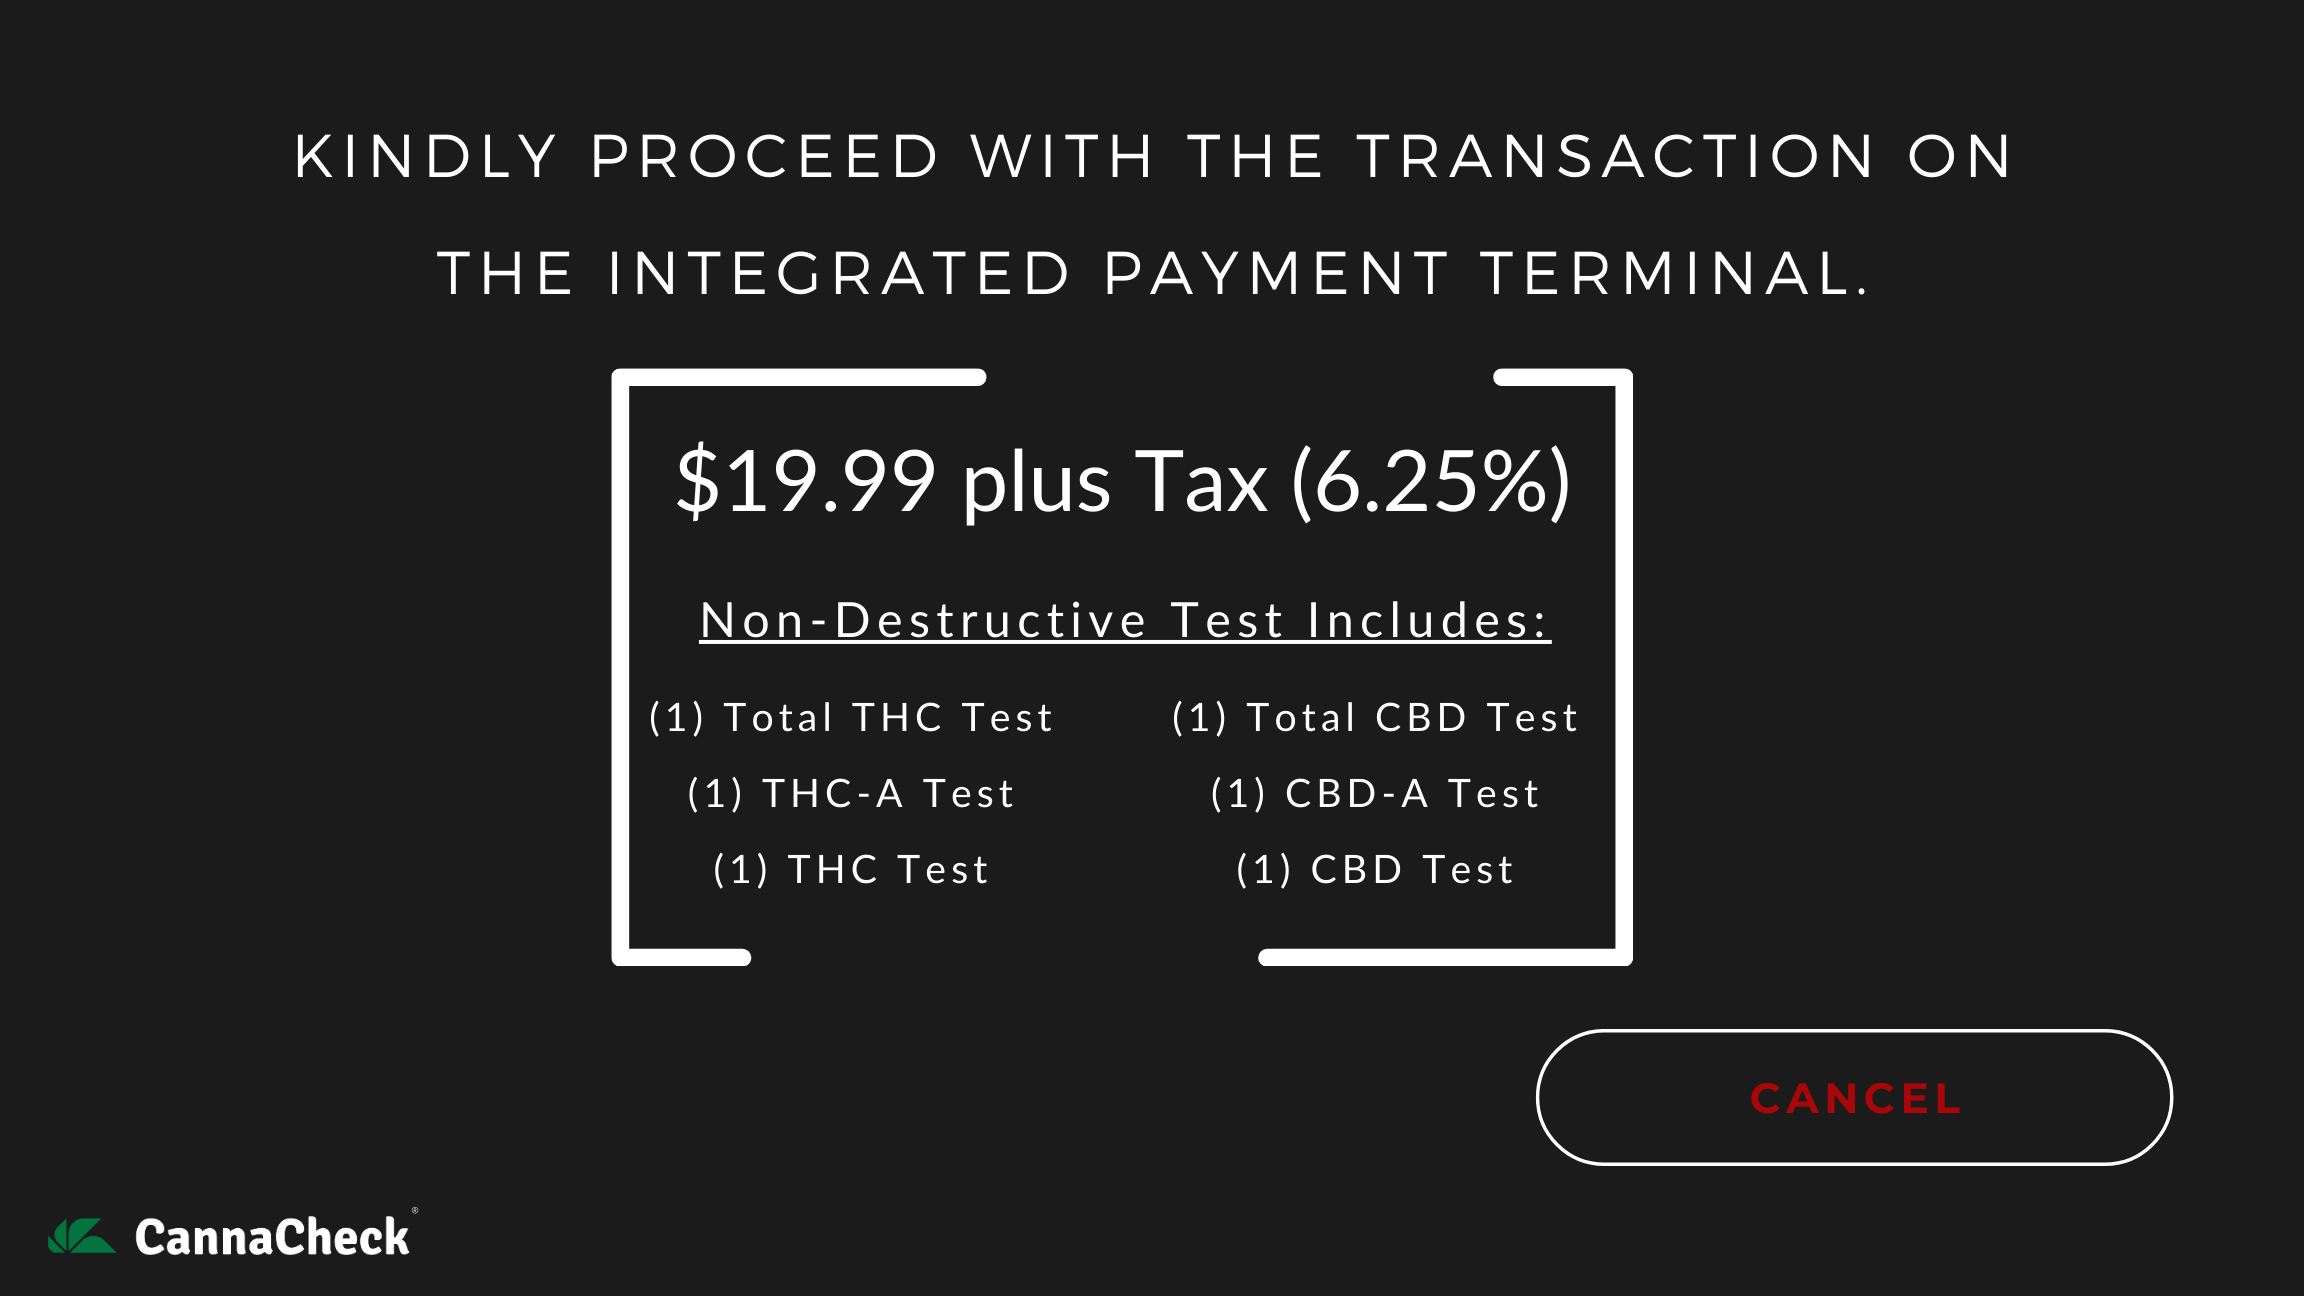
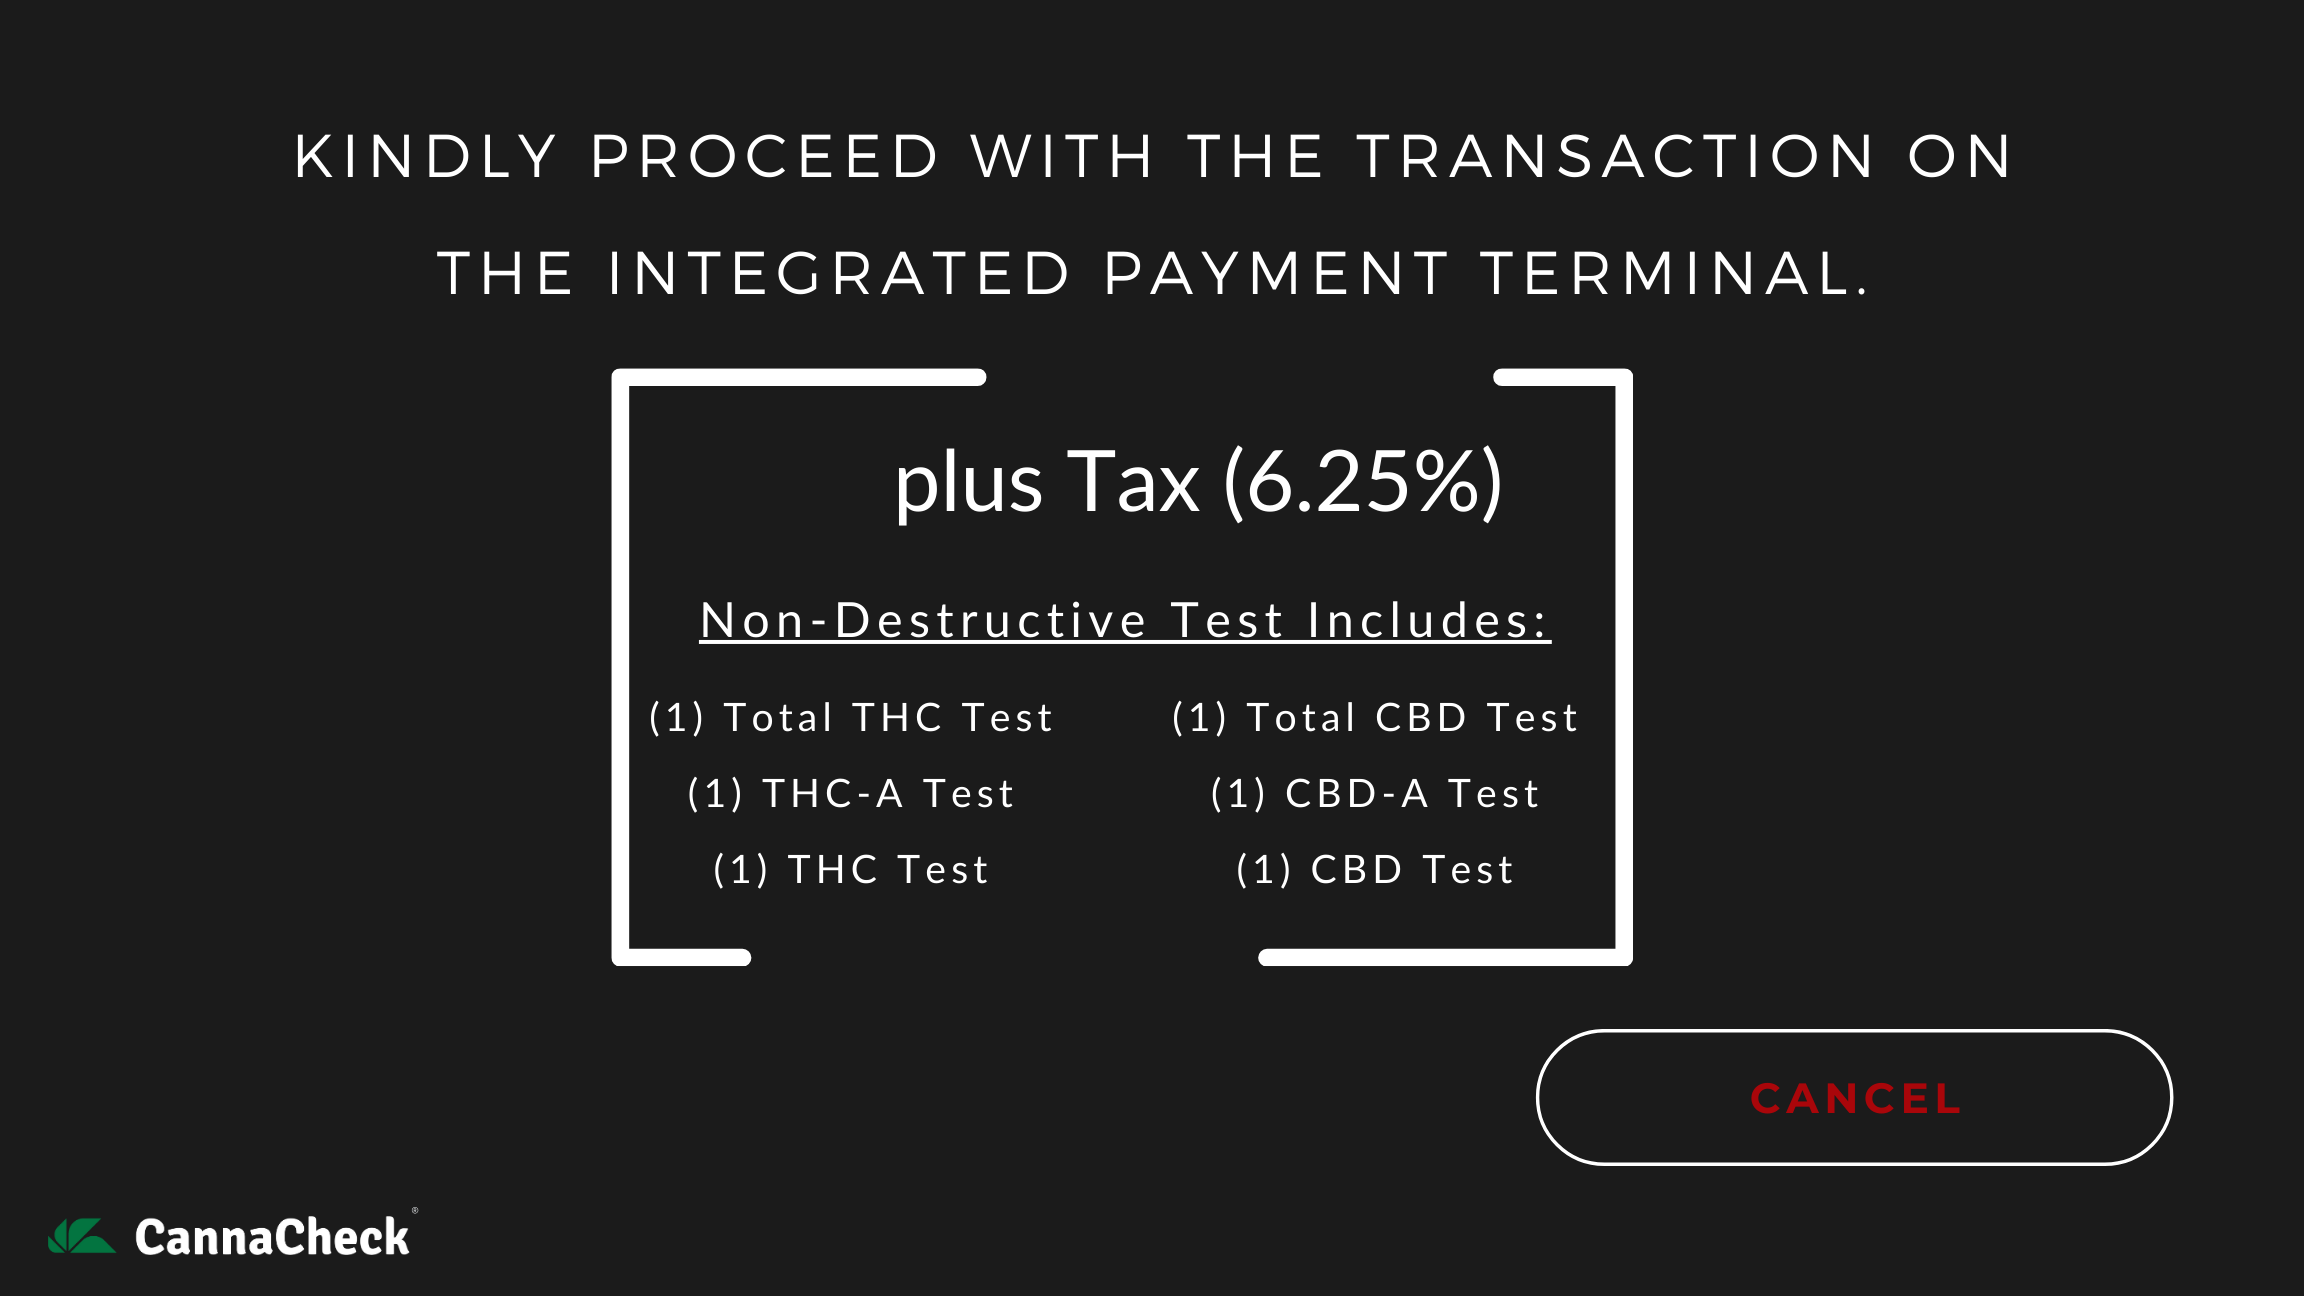
remove 19.99 from payment page, updated some text on faq page, refactored leaderboard page to encapsulate requests,

Changed region(s): [[0.2812, 0.3395, 0.6875, 0.4012]]

diff --git a/lib_gui/pages/leaderboard.py b/lib_gui/pages/leaderboard.py
@@ -15,6 +15,7 @@ from PyQt5.QtCore import QThread, pyqtSignal, Qt
 from PyQt5.QtGui import QColor, QFont, QPalette, QIcon, QPixmap, QImage
 import time
 import requests
+import os
 
 
 def switch_to_leaderboard_page(self):
@@ -166,31 +167,37 @@ def setup_table(self, table):
         }
     """)
 
+
 def display_leaderboard(self):
     kiosk_id = self.config.KioskID  # Retrieve the kiosk_id from the config
 
     try:
-        #TODO break out the functions to request data from the website and add them to lib_kiosk User_Database_interface and
-        # have this function take in the retrieved data. This library is public. We do not want the urls to access the backend features
-        # of our website shown, and we don't need lib_gui doing back end work
-        
         # Fetch all-time leaderboard data
-        response_all_time = requests.get(f'http://127.0.0.1:5000/top-thca-testers?kiosk_id={kiosk_id}', headers={"Accept": "application/json"})
-        response_all_time.raise_for_status()  # Raise an exception for HTTP errors
-        leaderboard_data_all_time = response_all_time.json()
-
+        leaderboard_data_all_time = self.get_all_time_leaderboard_data(kiosk_id)
         self.populate_table(self.table_all_time, leaderboard_data_all_time)
 
         # Fetch monthly leaderboard data
-        response_monthly = requests.get(f'http://127.0.0.1:5000/top-thca-testers-monthly?kiosk_id={kiosk_id}', headers={"Accept": "application/json"})
-        response_monthly.raise_for_status()  # Raise an exception for HTTP errors
-        leaderboard_data_monthly = response_monthly.json()
-
+        leaderboard_data_monthly = self.get_monthly_leaderboard_data(kiosk_id)
         self.populate_table(self.table_monthly, leaderboard_data_monthly)
 
     except Exception as e:
         print(f"Failed to retrieve leaderboard data: {e}")
         # Handle the error (e.g., display an error message on the UI)
+
+def get_all_time_leaderboard_data(self, kiosk_id):
+    # This method will be overridden in lib_kiosk
+    pass
+
+
+def get_monthly_leaderboard_data(self, kiosk_id):
+    # This method will be overridden in lib_kiosk
+    pass
+
+def get_relative_path(relative_path):
+    # Adjust the base path to point to the lib_gui directory
+    base_path = os.path.join(os.path.dirname(os.path.realpath(__file__)), '..')
+    full_path = os.path.normpath(os.path.join(base_path, relative_path))
+    return full_path
 
 def populate_table(self, table, leaderboard_data):
     """Populates a leaderboard table with data"""
@@ -201,13 +208,13 @@ def populate_table(self, table, leaderboard_data):
         rank_label = QLabel()
         rank_label.setAlignment(Qt.AlignCenter)
         rank_label.setStyleSheet("background-color: #2e2e2e;")  # Set background color
-        #TODO remove absolute paths. See Lib_kiosk ReceiptPDFGenerator.py for an example on getting a file from a relative path
+
         if idx == 0:
-            rank_label.setPixmap(QPixmap("/Users/tiki/Desktop/Monolith_Kiosk_Code/lib_gui/lib_gui/rank_medal_images/first_place_medal.png").scaled(70, 70, Qt.KeepAspectRatio, Qt.SmoothTransformation))
+            rank_label.setPixmap(QPixmap(get_relative_path("rank_medal_images/first_place_medal.png")).scaled(70, 70, Qt.KeepAspectRatio, Qt.SmoothTransformation))
         elif idx == 1:
-            rank_label.setPixmap(QPixmap("/Users/tiki/Desktop/Monolith_Kiosk_Code/lib_gui/lib_gui/rank_medal_images/second_place_medal.png").scaled(70, 70, Qt.KeepAspectRatio, Qt.SmoothTransformation))
+            rank_label.setPixmap(QPixmap(get_relative_path("rank_medal_images/second_place_medal.png")).scaled(70, 70, Qt.KeepAspectRatio, Qt.SmoothTransformation))
         elif idx == 2:
-            rank_label.setPixmap(QPixmap("/Users/tiki/Desktop/Monolith_Kiosk_Code/lib_gui/lib_gui/rank_medal_images/third_place_medal.png").scaled(70, 70, Qt.KeepAspectRatio, Qt.SmoothTransformation))
+            rank_label.setPixmap(QPixmap(get_relative_path("rank_medal_images/third_place_medal.png")).scaled(70, 70, Qt.KeepAspectRatio, Qt.SmoothTransformation))
         else:
             rank_label.setText(f"#{idx + 1}")
             rank_label.setAlignment(Qt.AlignCenter)

diff --git a/lib_gui/gui.py b/lib_gui/gui.py
@@ -266,7 +266,8 @@ class GUI(QtWidgets.QMainWindow):
     # Leaderboard Page methods
     from .pages.leaderboard import (switch_to_leaderboard_page, connect_leaderboard_buttons, setup_leaderboard_page,
                                     display_leaderboard, leaderboard_back_to_start_page, LeaderboardPageTimeoutCallback,
-                                    reset_leaderboard_scroll, setup_table, populate_table)
+                                    reset_leaderboard_scroll, setup_table, populate_table, get_monthly_leaderboard_data,
+                                    get_relative_path, get_all_time_leaderboard_data)
 
     from .pages.ApplyPointsPage import switch_to_ApplyPointsPage, connect_ApplyPointsPage_buttons, Skip_PointsApplied, Confirm_PointsApplied
 

diff --git a/lib_gui/pages/faq_page.py b/lib_gui/pages/faq_page.py
@@ -142,7 +142,7 @@ def setup_faq_page(self):
                 (os.path.join(image_dir, "CBDtit Scatter copy.png"), "CBD Total Scatter (x: actual, y: predicted)"),
                 (os.path.join(image_dir, "Trip Scatter THC copy.png"), "Triplicate Scatter THC (x: actual, y: predicted)"),
                 (os.path.join(image_dir, "Trip Scatter CBD copy.png"), "Triplicate Scatter CBD (x: actual, y: predicted)"),
-                (os.path.join(image_dir, "PLS Val Errors copy.png"), "PLS Validation Errors (deviations from zero % error)")
+                (os.path.join(image_dir, "PLS Val Errors copy.png"), "PLS Validation Errors (deviation count from zero % error)")
             ])
         else:
             faq_data = self.add_faq(scroll_layout, question, answer)
